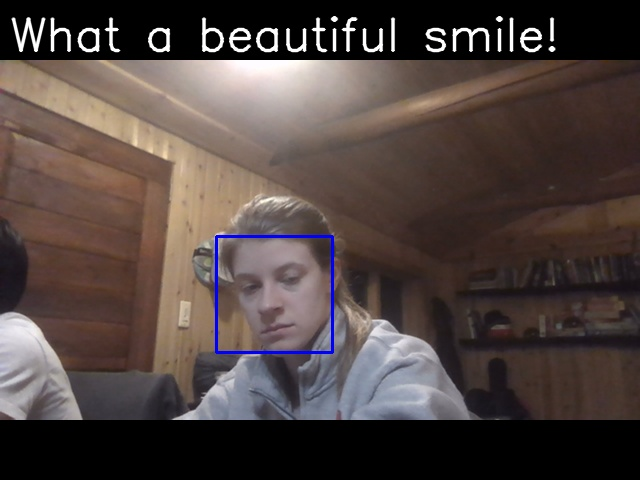
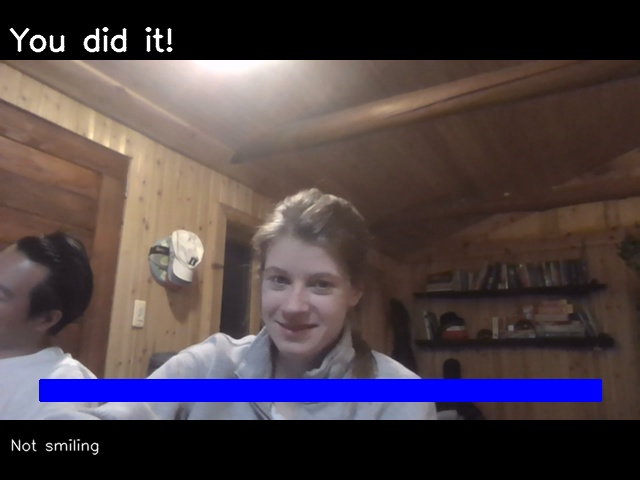
finished part 2

diff --git a/Lab 5/face-detection/magic_mirror.py b/Lab 5/face-detection/magic_mirror.py
@@ -1,0 +1,104 @@
+'''
+Based on https://opencv-python-tutroals.readthedocs.io/en/latest/py_tutorials/py_objdetect/py_face_detection/py_face_detection.html#face-detection
+
+Look here for more cascades: https://github.com/parulnith/Face-Detection-in-Python-using-OpenCV/tree/master/data/haarcascades
+
+
+Edited by David Goedicke
+Further edited by Hortense Gimonet
+'''
+
+
+import numpy as np
+import cv2
+import sys
+import random
+import os
+import time
+
+font = cv2.FONT_HERSHEY_SIMPLEX
+comments = ['Dont forget to smile!!',
+            'What a beautiful smile!']
+label = ['Not smiling', 'Smiling']
+cheering = ['You look great today!', 'What a nice smile!', 'Feeling happy yet?', 'You are doing great!', 'Wow, what an amazing smile!', 'You did it!']
+is_smiling = []
+smile_count = 0
+smile_thresh = 100
+
+
+face_cascade = cv2.CascadeClassifier('haarcascade_frontalface_default.xml')
+eye_cascade = cv2.CascadeClassifier('haarcascade_eye.xml')
+smile_cascade = cv2.CascadeClassifier('haarcascade_smile.xml')
+
+img=None
+webCam = False
+if(len(sys.argv)>1):
+    try:
+        print("I'll try to read your image");
+        img = cv2.imread(sys.argv[1])
+        if img is None:
+            print("Failed to load image file:", sys.argv[1])
+    except:
+        print("Failed to load the image are you sure that:", sys.argv[1],"is a path to an image?")
+else:
+    try:
+        print("Trying to open the Webcam.")
+        cap = cv2.VideoCapture(0)
+        if cap is None or not cap.isOpened():
+            raise("No camera")
+        webCam = True
+    except:
+        img = cv2.imread("../data/test.jpg")
+        print("Using default image.")
+
+
+while(True):
+    time.sleep(0.1)
+
+    if webCam:
+        ret, img = cap.read()
+
+    img_h, img_w, _ = img.shape
+    bar_x, bar_y, bar_w, bar_h, = 40, img_h-100, img_w-80, 20
+    cv2.rectangle(img,(bar_x,bar_y),(bar_x+bar_w,bar_y+bar_h),(255,0,0),2)
+
+    gray = cv2.cvtColor(img, cv2.COLOR_BGR2GRAY)
+
+    faces = face_cascade.detectMultiScale(gray, 1.3, 5)
+    if len(faces) == 0:
+        cv2.putText(img, 'No face detected', (10, img_h-30), font, 0.5, (255, 255, 255), 1, cv2.LINE_AA)
+    # only pick one face
+    for (x,y,w,h) in faces[:1]:
+        # img = cv2.rectangle(img,(x,y),(x+w,y+h),(255,0,0),2)
+        roi_gray = gray[y:y+h, x:x+w]
+        roi_color = img[y:y+h, x:x+w]
+
+        smiles = smile_cascade.detectMultiScale(roi_gray, 1.8, 8)
+        smiling_now = len(smiles) > 0
+        smile_count += int(smiling_now)
+        is_smiling.append(smiling_now)
+
+        # print whether person is smiling
+        cv2.putText(img, label[int(smiling_now)], (10, img_h-30), font, 0.5, (255, 255, 255), 1, cv2.LINE_AA)
+
+        progress = min(smile_count / smile_thresh, 1.0)
+
+        cv2.putText(img, cheering[int(np.ceil(progress * len(cheering))-1)], (10, 50), font, 1, (255, 255, 255), 2, cv2.LINE_AA)
+
+        w = int(np.ceil(progress * bar_w))
+        # print((bar_x, bar_y), (bar_x + w, bar_y + bar_h))
+        cv2.rectangle(img, (bar_x, bar_y), (bar_x + w, bar_y + bar_h), (255, 0, 0), -1)
+
+
+
+    if webCam:
+        cv2.imshow('face-detection (press q to quit.)',img)
+        if cv2.waitKey(1) & 0xFF == ord('q'):
+            cap.release()
+            break
+    else:
+        break
+
+cv2.imwrite('faces_detected.jpg',img)
+cv2.destroyAllWindows()
+

diff --git a/Lab 5/face-detection/smile-detection.py b/Lab 5/face-detection/smile-detection.py
@@ -19,6 +19,7 @@ import time
 font = cv2.FONT_HERSHEY_SIMPLEX
 comments = ['Dont forget to smile!!',
             'What a beautiful smile!']
+label = ['Not smiling', 'Smiling']
 is_smiling = []
 timer = 0
 
@@ -54,10 +55,13 @@ while(True):
     timer += 1
     if webCam:
         ret, img = cap.read()
+        img_h, w, _ = img.shape
 
     gray = cv2.cvtColor(img, cv2.COLOR_BGR2GRAY)
 
     faces = face_cascade.detectMultiScale(gray, 1.3, 5)
+    if len(faces) == 0:
+        cv2.putText(img, 'No face detected', (10, img_h-30), font, 0.5, (255, 255, 255), 1, cv2.LINE_AA)
     # only pick one face
     for (x,y,w,h) in faces[:1]:
         img = cv2.rectangle(img,(x,y),(x+w,y+h),(255,0,0),2)
@@ -71,9 +75,11 @@ while(True):
             cv2.rectangle(roi_color,(ex,ey),(ex+ew,ey+eh),(0,0,255),2)
         is_smiling.append(len(smiles) > 0)
         # print whether person is smiling
-        txt = comments[int(np.mean(is_smiling[-30:]) > 0.5)]
+        txt = comments[int(np.mean(is_smiling[-15:]) > 0.5)]
         # print(txt)
         cv2.putText(img, txt, (10, 50), font, 1.5, (255, 255, 255), 2, cv2.LINE_AA)
+        cv2.putText(img, label[int(is_smiling[-1])], (10, img_h-30), font, 0.5, (255, 255, 255), 1, cv2.LINE_AA)
+
         # if timer > 20:
         #     os.system(f"espeak '{txt}'")
         #     timer = 0

diff --git a/Lab 5/README.md b/Lab 5/README.md
@@ -49,12 +49,11 @@ D) [Reflect](#part-d)
 ## Part 1
 
 ### Part A
-
 ### Play with different sense-making algorithms.
 
-Befor you get started connect the RaspberryPi Camera
-V2. [The Pi hut has a great explanation on how to do that](https://thepihut.com/blogs/raspberry-pi-tutorials/16021420-how-to-install-use-the-raspberry-pi-camera)
-.
+Before you get started connect the RaspberryPi Camera V2. 
+[The Pi hut has a great explanation on how to do that.](https://thepihut.com/blogs/raspberry-pi-tutorials/16021420-how-to-install-use-the-raspberry-pi-camera)
+
 
 #### OpenCV
 
@@ -142,7 +141,6 @@ As a note, the global Python install contains also a PyTorch installation. That 
 are so inclined.
 
 ### Part B
-
 ### Construct a simple interaction.
 
 Pick one of the models you have tried, pick a class of objects, and experiment with prototyping an interaction. This can
@@ -159,7 +157,6 @@ the first face detected, and check whether is detects a smile in the face. I had
 minimum number of neighbors parameters so that the smile could be detected when the face was further away.
 
 ### Part C
-
 ### Test the interaction prototype
 
 Now flight test your interactive prototype and **note your observations**:
@@ -175,7 +172,7 @@ ones, and not detecting anything that is a frown. It however can be tricked by g
 the model probably associates teeth with smiles regardless of the shape of the mouth. I think it would work as a really
 rough mood detector, but not if users are intent on trying to break the system.
 
-Good Examples:
+*Good Examples*
 <p float="left">
 <img src="https://github.com/hgimonet/sp2021_IDD_Interactive-Lab-Hub/blob/Spring2021/Lab%205/imgs/Screenshot%202021-04-18%20225328.png" height="200" />
 <img src="https://github.com/hgimonet/sp2021_IDD_Interactive-Lab-Hub/blob/Spring2021/Lab%205/imgs/Screenshot%202021-04-18%20225425.png" height="200" />
@@ -183,10 +180,10 @@ Good Examples:
 </p>
 Left to right: Close-up smiling, close-up not smiling, far away and smiling
 
-Bad Exmaples:
+
+*Bad Examples*
 <p float="left">
 <img src="https://github.com/hgimonet/sp2021_IDD_Interactive-Lab-Hub/blob/Spring2021/Lab%205/imgs/Screenshot%202021-04-18%20225633.png" height="200">
-<img src="" height="200">
 </p>
 
 **Think about someone using the system. Describe how you think this will work.**
@@ -208,7 +205,6 @@ the device's fault). It would be extremely important in that case to save footag
 so that it can be check with human eyes.
 
 ### Part D
-
 ### Characterize your own Observant system
 
 Now that you have experimented with one or more of these sense-making systems **characterize their behavior**. During
@@ -227,28 +223,45 @@ the lecture, we mentioned questions to help characterize a material:
 I originally thought this could be used to tell people not to frown when they are working. This type of solution would
 be handy for people spending a lot of time in front of their computer, since frowning give you wrinkles! It could also
 be used as a training device for cashiers or dancers, or anyone who should be able to perform intensive tasks without
-frowning.
-After testing the system though, I realized this would also be really handy in a camera, to take pictures without the
-user having to press a button. If it worked for multiple faces, it could be used to capture the moment where as many
-people as possible are looking at the camera and smiling.
+frowning. After testing the system though, I realized this would also be really handy in a camera, to take pictures
+without the user having to press a button. If it worked for multiple faces, it could be used to capture the moment where
+as many people as possible are looking at the camera and smiling.
 
-My device as is wouldn't work in a crowded environment. It also wouldn't work on face that are not directly looking at 
-the camera, which limits the possible use cases. I think any enviromnent with a static user would be okay, since the 
-device can be place somewhere facing the user. Any environment where the users would be invested in looking straight 
-at the device would work too -- in a personal camera, a photo-booth, or possibly a mirror. 
+My device as is wouldn't work in a crowded environment. It also wouldn't work on face that are not directly looking at
+the camera, which limits the possible use cases. I think any enviromnent with a static user would be okay, since the
+device can be place somewhere facing the user. Any environment where the users would be invested in looking straight at
+the device would work too -- in a personal camera, a photo-booth, or possibly a mirror.
 
-The way I set it up, the device breaking only happens in the form of misclassification. It definitely breaks when the 
-user grimaces, and can also make mistakes when there is more than one face in front of the camera.
+The way I set it up, the device breaking only happens in the form of misclassification. It definitely breaks when the
+user grimaces, and can also make mistakes when there is more than one face in front of the camera. I also noticed that
+leaning my head to either side could prevent the smile from being detected.
 
-The device feels a little strange - I was hoping it would be fun and encouraging, but the boxes around the face and 
-mouth are a little off-putting. I think it would make sense to remove the bounding boxes, and simply have textual 
-feedback on what is detected. I also tried voice feedback, which I think works well for a use-case where the user is 
-not looking at the video as it is taken.
+The device feels a little strange - I was hoping it would be fun and encouraging, but the boxes around the face and
+mouth are a little off-putting. I think it would make sense to remove the bounding boxes, and simply have textual
+feedback on what is detected. I also tried voice feedback, which I think works well for a use-case where the user is not
+looking at the video as it is taken.
+
+
+I have a video looking at the limitations of the detector below:
+
+[![](http://img.youtube.com/vi/hMRs5QhPz6I/0.jpg)](http://www.youtube.com/watch?v=hMRs5QhPz6I "")
 
 
 ## Part 2.
 
 Following exploration and reflection from Part 1, finish building your interactive system, and demonstrate it in use
-iwth a video.
+with a video.
+
 **Include a short video demonstrating the finished result.**
+
+For the final iteration, I decided to prototype a mirror that encourages people to smile for a little bit every day 
+(like a more positive version of the mirror in Snow White!). 
+The text on the screen could be printed on a mirror instead of overlapped on the video (on a oled behind the glass), 
+and the user would be looking at their refection rather than a video. I think this would work pretty well in a bathroom 
+-- it could also be used similarly to count down while brunshing teeth, or even washing hands.
+
+See demo below:
+
+[![](http://img.youtube.com/vi/22xD9nggCME/0.jpg)](http://www.youtube.com/watch?v=22xD9nggCME "")
+
 
